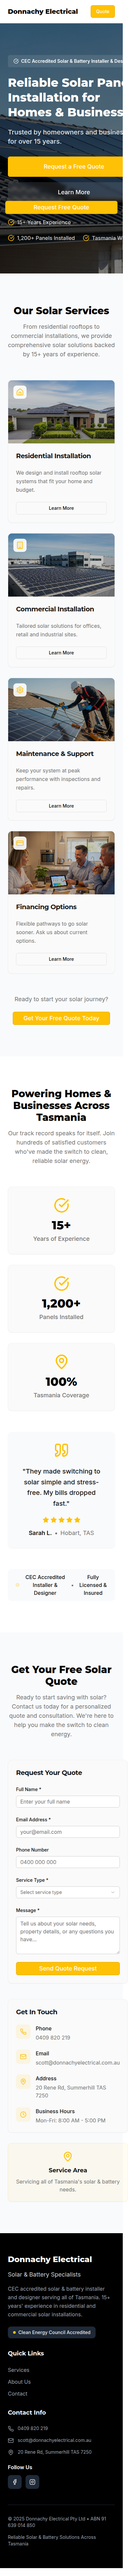
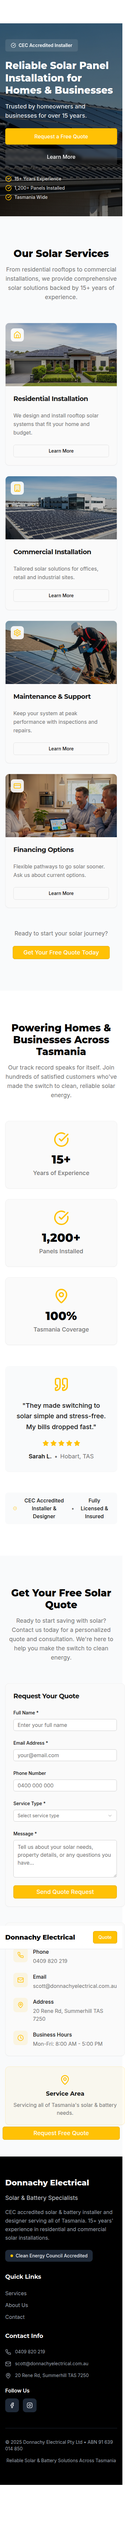
Improve responsiveness of website sections across various screen sizes
Adjusted padding and layout configurations in multiple components (Contact, Footer, Header, Hero, Services) to ensure better visibility and usability on mobile devices. Added responsive text handling for hero section badges and increased specificity for element sizing and spacing. Modified the mobile sticky CTA to occupy less horizontal space.

Replit-Commit-Author: Agent
Replit-Commit-Session-Id: 0d944df6-3791-48ee-96f6-86b4c9616de4
Replit-Commit-Checkpoint-Type: full_checkpoint
Replit-Commit-Screenshot-Url: https://storage.googleapis.com/screenshot-production-us-central1/4dc83374-b203-4700-a99a-87e551d229ba/0d944df6-3791-48ee-96f6-86b4c9616de4/vgZpJUf

diff --git a/client/src/components/Hero.tsx b/client/src/components/Hero.tsx
@@ -11,7 +11,7 @@ export default function Hero() {
     document.getElementById('contact')?.scrollIntoView({ behavior: 'smooth' });
   };
   return (
-    <section className="relative min-h-[80vh] flex items-center overflow-hidden">
+    <section className="relative min-h-[60vh] md:min-h-[80vh] flex items-center overflow-hidden">
       {/* Background Image with Overlay */}
       <div 
         className="absolute inset-0 bg-cover bg-center bg-no-repeat"
@@ -21,7 +21,7 @@ export default function Hero() {
       </div>
 
       {/* Content */}
-      <div className="relative z-10 max-w-7xl mx-auto px-6 py-24">
+      <div className="relative z-10 max-w-7xl mx-auto px-4 md:px-6 py-12 md:py-24">
         <div className="max-w-3xl">
           {/* CEC Badge */}
           <div className="mb-6">
@@ -31,25 +31,26 @@ export default function Hero() {
               data-testid="badge-cec"
             >
               <CheckCircle size={16} className="mr-2" />
-              CEC Accredited Solar & Battery Installer & Designer
+<span className="hidden sm:inline">CEC Accredited Solar & Battery Installer & Designer</span>
+              <span className="sm:hidden">CEC Accredited Installer</span>
             </Badge>
           </div>
 
           {/* Main Headline */}
-          <h1 className="font-heading font-extrabold text-4xl md:text-6xl text-white mb-6 leading-tight">
+          <h1 className="font-heading font-extrabold text-3xl md:text-6xl text-white mb-4 md:mb-6 leading-tight">
             Reliable Solar Panel Installation for Homes & Businesses
           </h1>
 
           {/* Subtext */}
-          <p className="text-xl md:text-2xl text-white/90 mb-8 font-medium">
+          <p className="text-lg md:text-2xl text-white/90 mb-6 md:mb-8 font-medium">
             Trusted by homeowners and businesses for over 15 years.
           </p>
 
           {/* CTA Buttons */}
-          <div className="flex flex-col sm:flex-row gap-4">
+          <div className="flex flex-col sm:flex-row gap-3 md:gap-4">
             <Button 
               size="lg" 
-              className="text-lg px-8 py-4"
+              className="text-base md:text-lg px-6 md:px-8 py-3 md:py-4"
               data-testid="button-hero-quote"
               onClick={scrollToContact}
             >
@@ -58,7 +59,7 @@ export default function Hero() {
             <Button 
               variant="outline" 
               size="lg" 
-              className="text-lg px-8 py-4 bg-white/10 text-white border-white/30 backdrop-blur-sm hover:bg-white/20"
+              className="text-base md:text-lg px-6 md:px-8 py-3 md:py-4 bg-white/10 text-white border-white/30 backdrop-blur-sm hover:bg-white/20"
               data-testid="button-hero-learn"
               onClick={() => navigate('/about')}
             >
@@ -67,7 +68,7 @@ export default function Hero() {
           </div>
 
           {/* Trust Indicators */}
-          <div className="mt-12 flex flex-wrap items-center gap-6 text-white/80">
+          <div className="mt-8 md:mt-12 flex flex-col sm:flex-row sm:flex-wrap items-start sm:items-center gap-2 md:gap-6 text-white/80 text-sm md:text-base">
             <div className="flex items-center gap-2">
               <CheckCircle size={20} className="text-primary" />
               <span className="font-medium">15+ Years Experience</span>
@@ -85,7 +86,7 @@ export default function Hero() {
       </div>
 
       {/* Mobile Sticky CTA */}
-      <div className="md:hidden fixed bottom-4 left-4 right-4 z-50">
+      <div className="md:hidden fixed bottom-4 left-2 right-2 z-50">
         <Button 
           size="lg" 
           className="w-full text-lg"

diff --git a/client/src/components/Contact.tsx b/client/src/components/Contact.tsx
@@ -141,7 +141,7 @@ export default function Contact() {
 
   return (
     <section id="contact" className="py-24 bg-gray-50">
-      <div className="max-w-7xl mx-auto px-6">
+      <div className="max-w-7xl mx-auto px-4 md:px-6">
         {/* Section Header */}
         <div className="text-center mb-16">
           <h2 className="font-heading font-extrabold text-3xl md:text-4xl text-black mb-4">
@@ -153,7 +153,7 @@ export default function Contact() {
           </p>
         </div>
 
-        <div className="grid lg:grid-cols-2 gap-12">
+        <div className="grid grid-cols-1 lg:grid-cols-2 gap-6 lg:gap-12">
           {/* Contact Form */}
           <Card>
             <CardHeader>
@@ -308,13 +308,13 @@ export default function Contact() {
                       {item.link ? (
                         <a 
                           href={item.link}
-                          className="text-muted-foreground hover:text-primary transition-colors"
+                          className="text-muted-foreground hover:text-primary transition-colors break-all sm:break-normal"
                           data-testid={`link-${item.id}`}
                         >
                           {item.value}
                         </a>
                       ) : (
-                        <div className="text-muted-foreground">
+                        <div className="text-muted-foreground break-all sm:break-normal">
                           {item.value}
                         </div>
                       )}

diff --git a/client/src/components/Services.tsx b/client/src/components/Services.tsx
@@ -50,7 +50,7 @@ export default function Services() {
   };
   return (
     <section id="services" className="py-24 bg-gray-50">
-      <div className="max-w-7xl mx-auto px-6">
+      <div className="max-w-7xl mx-auto px-4 md:px-6">
         {/* Section Header */}
         <div className="text-center mb-16">
           <h2 className="font-heading font-extrabold text-3xl md:text-4xl text-black mb-4">
@@ -117,7 +117,7 @@ export default function Services() {
           </p>
           <Button 
             size="lg" 
-            className="text-lg px-8"
+            className="text-base md:text-lg px-4 md:px-8"
             data-testid="button-services-quote"
             onClick={scrollToContact}
           >

diff --git a/client/src/components/Header.tsx b/client/src/components/Header.tsx
@@ -4,7 +4,7 @@ import { Phone } from "lucide-react";
 export default function Header() {
   return (
     <header className="bg-white border-b border-gray-200 sticky top-0 z-50">
-      <div className="max-w-7xl mx-auto px-6 py-4">
+      <div className="max-w-7xl mx-auto px-4 md:px-6 py-4">
         <div className="flex items-center justify-between">
           {/* Logo */}
           <div className="flex items-center">

diff --git a/client/src/components/Proof.tsx b/client/src/components/Proof.tsx
@@ -32,7 +32,7 @@ const testimonial = {
 export default function Proof() {
   return (
     <section className="py-24 bg-white">
-      <div className="max-w-7xl mx-auto px-6">
+      <div className="max-w-7xl mx-auto px-4 md:px-6">
         {/* Section Header */}
         <div className="text-center mb-16">
           <h2 className="font-heading font-extrabold text-3xl md:text-4xl text-black mb-4">

diff --git a/client/src/components/Footer.tsx b/client/src/components/Footer.tsx
@@ -47,7 +47,7 @@ export default function Footer() {
 
   return (
     <footer className="bg-black text-white">
-      <div className="max-w-7xl mx-auto px-6 py-16">
+      <div className="max-w-7xl mx-auto px-4 md:px-6 py-16">
         <div className="grid grid-cols-1 md:grid-cols-4 gap-8">
           {/* Company Info */}
           <div className="md:col-span-2">
